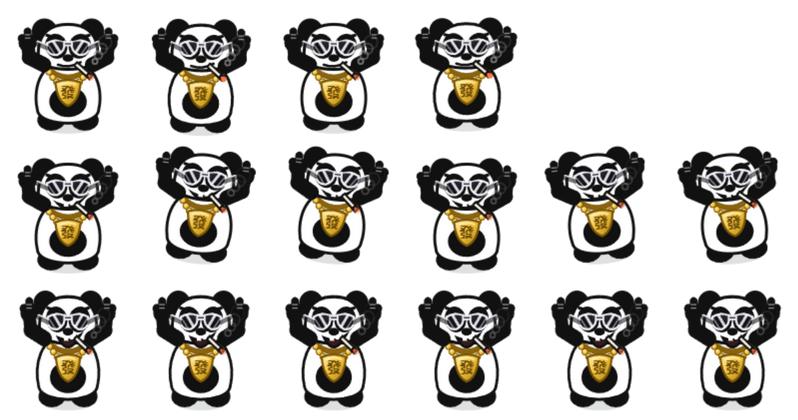
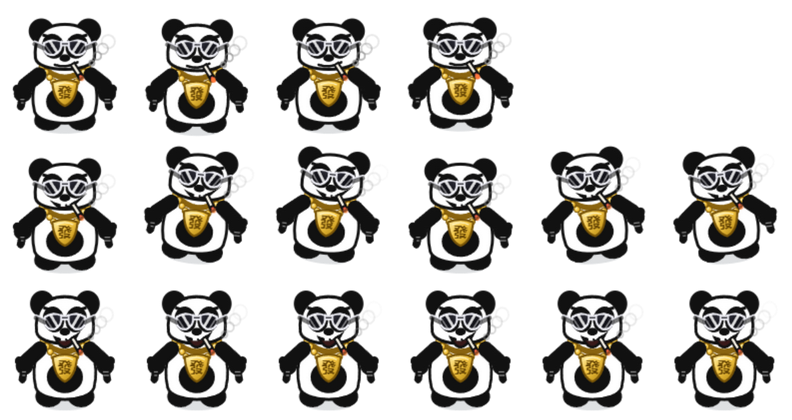
熊猫人：手放低，改成双手垂在身侧、中指朝下
举着手的姿势更像投降/欢呼，不够拽。改成垂下之后是那种
「懒得理你」的松弛感，配墨镜和金牌更对味。

连带调整：
- 肩点从 y-18 降到 y-6，肘 y6、拳心 y18，仍在轮廓外（x=±50）
- 中指改成从拳头下方向下伸，带指节纹路
- 手放低后肩膀随之下移，原来朝右下的烟会撞上肩膀，
  所以烟改成几乎垂直朝下（1.0 弧度、长度 20），末端落在 y≈-2
- 烟圈改成往外飘得更多，避免糊在脸边

diff --git a/build/make-skins.js b/build/make-skins.js
@@ -473,30 +473,30 @@ function drawPanda(ctx, q, p, kind) {
 
   /* ---- 烟：从嘴里斜插出去，正好被手指捏住 ---- */
   /* 烟朝下斜插：原来朝上，末端正好落在举起的右拳位置，看着像被烟头挡住了手 */
-  const cigAng = 0.72;
+  const cigAng = 1.0;
   const cx0 = 9, cy0 = -19;
   const cx1 = 26, cy1 = -6;
   ctx.save();
   ctx.translate(cx0, cy0);
   ctx.rotate(cigAng);
   ctx.fillStyle = '#F7F2E6';
-  ctx.beginPath(); ctx.rect(0, -2.6, 24, 5.2);
+  ctx.beginPath(); ctx.rect(0, -2.6, 20, 5.2);
   ctx.fill();
   ctx.lineWidth = 2.4; ctx.strokeStyle = LINE; ctx.stroke();
   ctx.fillStyle = '#E2574C';
-  ctx.beginPath(); ctx.rect(19, -2.6, 5, 5.2); ctx.fill(); ctx.stroke();
+  ctx.beginPath(); ctx.rect(15, -2.6, 5, 5.2); ctx.fill(); ctx.stroke();
   /* 烟头火星 */
   ctx.fillStyle = 'rgba(255,120,60,' + (0.55 + 0.45 * Math.abs(Math.sin(p * TAU * 3))) + ')';
-  ctx.beginPath(); ctx.arc(24.5, 0, 3.2, 0, TAU); ctx.fill();
+  ctx.beginPath(); ctx.arc(20.5, 0, 3.2, 0, TAU); ctx.fill();
   ctx.restore();
 
   /* ---- 两条胳膊对称举起，双手比中指 ----
        位置固定在身体轮廓之外（x = ±48），保证看得见。 ---- */
   const rise = q.arm * 5;
   [-1, 1].forEach(function (sg) {
-    const shX = sg * 29, shY = -18;
-    const elX = sg * 46, elY = -26 - rise * 0.4;
-    const hx = sg * 48, hy = -42 - rise;
+    const shX = sg * 31, shY = -6;
+    const elX = sg * 47, elY = 6 + rise * 0.3;
+    const hx = sg * 50, hy = 18 - rise;
     ctx.lineCap = 'round'; ctx.lineJoin = 'round';
     /* 上臂 + 前臂（先描粗边再填色，保持梗图的粗描边） */
     [[shX, shY, elX, elY, 15], [elX, elY, hx, hy, 13]].forEach(function (a) {
@@ -515,19 +515,20 @@ function drawPanda(ctx, q, p, kind) {
       ctx.fillStyle = '#111111'; ctx.fill();
       ctx.lineWidth = 2.2; ctx.strokeStyle = LINE; ctx.stroke();
     });
-    /* 中指：从拳头上方竖起来 */
+    /* 中指：朝下伸（手垂在身侧、中指指地，比举起来更松弛更拽） */
+    const fx = hx + sg * 2.5;
     ctx.beginPath();
-    ctx.moveTo(hx - 3.4, hy - 2);
-    ctx.lineTo(hx - 3.4, hy - 15);
-    ctx.quadraticCurveTo(hx, hy - 20, hx + 3.4, hy - 15);
-    ctx.lineTo(hx + 3.4, hy - 2);
+    ctx.moveTo(hx - 3.4, hy + 2);
+    ctx.lineTo(fx - 3.4, hy + 16);
+    ctx.quadraticCurveTo(fx, hy + 22, fx + 3.4, hy + 16);
+    ctx.lineTo(hx + 3.4, hy + 2);
     ctx.closePath();
     ctx.fillStyle = '#111111'; ctx.fill();
     ctx.lineWidth = 2.6; ctx.strokeStyle = LINE; ctx.stroke();
     /* 指节纹路，让它一眼是根手指 */
     ctx.strokeStyle = 'rgba(255,255,255,.5)'; ctx.lineWidth = 1.5;
-    ctx.beginPath(); ctx.moveTo(hx - 2.6, hy - 6); ctx.lineTo(hx + 2.6, hy - 6); ctx.stroke();
-    ctx.beginPath(); ctx.moveTo(hx - 2.6, hy - 10); ctx.lineTo(hx + 2.6, hy - 10); ctx.stroke();
+    ctx.beginPath(); ctx.moveTo(hx - 2.2, hy + 7); ctx.lineTo(hx + 2.2 + sg * 1, hy + 7); ctx.stroke();
+    ctx.beginPath(); ctx.moveTo(hx - 1.6, hy + 11); ctx.lineTo(hx + 1.8 + sg * 1.6, hy + 11); ctx.stroke();
   });
 
   /* ---- 烟圈（待机时最明显） ---- */
@@ -536,7 +537,7 @@ function drawPanda(ctx, q, p, kind) {
     ctx.globalAlpha = (1 - t) * (kind === 'idle' ? 0.8 : 0.45);
     ctx.strokeStyle = '#8A8A8A'; ctx.lineWidth = 2.2;
     ctx.beginPath();
-    ctx.arc(cx1 + 6 + t * 16, cy1 - 16 - t * 30, 3 + t * 6.5, 0, TAU);
+    ctx.arc(cx1 + 6 + t * 26, cy1 - 14 - t * 34, 3 + t * 6.5, 0, TAU);
     ctx.stroke();
   }
   ctx.globalAlpha = 1;
